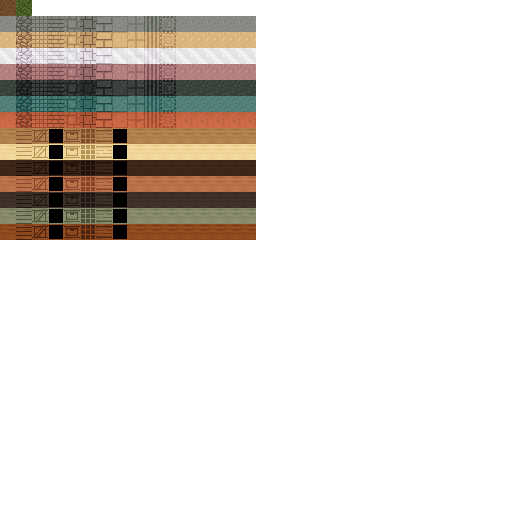
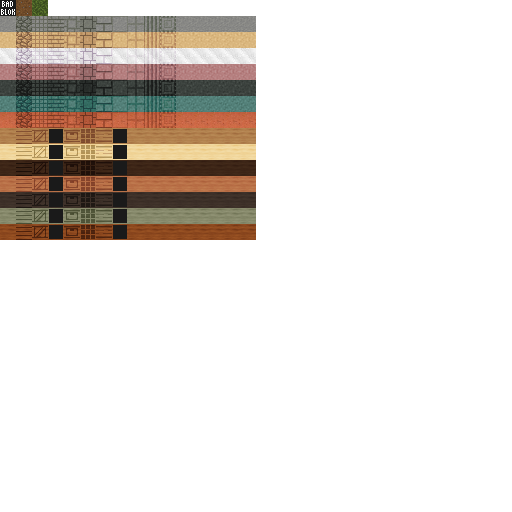
fix segflt when liting up a world for first time

Changed region(s): [[0.2188, 0.25, 0.25, 0.4688], [0.0938, 0.25, 0.125, 0.4688], [0.0, 0.0, 0.0938, 0.0312]]

diff --git a/src/lighting.c b/src/lighting.c
@@ -12,8 +12,6 @@ static const int opaque_shape[] = {
 	1, 1, 1, 1, 1, 1,
 	0, 0, 0,
 	1, 1, 1, 1, 1, 1, 1, 1,
-	1, 1,
-	0, 0, 0, 0, 0, 0, 0, 0, 0, 0, 0, 0, 0, 0, 0, 0
 };
 
 struct lighting {
@@ -84,13 +82,17 @@ void update_lighting(struct world *w, struct box3ll bb, struct box3ll *rbb)
 	while (array_size(l->s1)) {
 		array_pop(l->s1, &p);
 		k = world_get_light(w, p);
-		world_set_light(w, p, 0);
-		find_boundary(l, v3ll(p.x, p.y - 1, p.z), k);
-		find_boundary(l, v3ll(p.x, p.y + 1, p.z), k - 1);
-		find_boundary(l, v3ll(p.x - 1, p.y, p.z), k - 1);
-		find_boundary(l, v3ll(p.x + 1, p.y, p.z), k - 1);
-		find_boundary(l, v3ll(p.x, p.y, p.z - 1), k - 1);
-		find_boundary(l, v3ll(p.x, p.y, p.z + 1), k - 1);
+		if (k > 0) {
+			world_set_light(w, p, 0);
+			find_boundary(l, v3ll(p.x, p.y - 1, p.z), k);
+			if (k > 1) {
+				find_boundary(l, v3ll(p.x, p.y + 1, p.z), k - 1);
+				find_boundary(l, v3ll(p.x - 1, p.y, p.z), k - 1);
+				find_boundary(l, v3ll(p.x + 1, p.y, p.z), k - 1);
+				find_boundary(l, v3ll(p.x, p.y, p.z - 1), k - 1);
+				find_boundary(l, v3ll(p.x, p.y, p.z + 1), k - 1);
+			}
+		}
 	}
 
 	if (bb.y1 == WORLD_H) {
@@ -100,21 +102,22 @@ void update_lighting(struct world *w, struct box3ll bb, struct box3ll *rbb)
 			world_set_light(w, v3ll(q.x, WORLD_H - 1, q.y), 15);
 	}
 
-	*rbb = bb;
+	if (rbb != NULL)
+		*rbb = bb;
 	while (array_size(l->s2)) {
 		array_pop(l->s2, &p);
-		if (p.x < rbb->x0)
-			rbb->x0 = p.x;
-		else if (p.x >= rbb->x1)
-			rbb->x1 = p.x + 1;
-		if (p.y < rbb->y0)
-			rbb->y0 = p.y;
-		else if (p.y >= rbb->y1)
-			rbb->y1 = p.y + 1;
-		if (p.z < rbb->z0)
-			rbb->z0 = p.z;
-		else if (p.z >= rbb->z1)
-			rbb->z1 = p.z + 1;
+		if (p.x < bb.x0)
+			bb.x0 = p.x;
+		else if (p.x >= bb.x1)
+			bb.x1 = p.x + 1;
+		if (p.y < bb.y0)
+			bb.y0 = p.y;
+		else if (p.y >= bb.y1)
+			bb.y1 = p.y + 1;
+		if (p.z < bb.z0)
+			bb.z0 = p.z;
+		else if (p.z >= bb.z1)
+			bb.z1 = p.z + 1;
 		k = world_get_light(w, p);
 		lit_up(l, v3ll(p.x, p.y - 1, p.z), k, 0, 1);
 		lit_up(l, v3ll(p.x, p.y + 1, p.z), k, 1, 0);

diff --git a/src/update.c b/src/update.c
@@ -3,6 +3,7 @@
 
 #include "context.h"
 #include "recipes.h"
+#include "lighting.h"
 
 
 int chunks_by_priority(const void *p1, const void *p2)
@@ -427,19 +428,25 @@ void update_chunks(struct context *ctx)
 	i = i < ctx->chunks_per_tick ? i : ctx->chunks_per_tick;
 	for (j = 0; j < i; ++j) {
 		c = out_of_date[j];
-		//		fprintf(stdout, "Update chunk %d (%d,%d); priority:%d", c->id, c->x, c->z, c->priority);
+			fprintf(stdout, "Update chunk %d (%d,%d); priority:%d", c->id, c->x, c->z, c->priority);
 		if ((c->flags & CHUNK_UNLOADED) != 0) {
-			//			printf("; load from file");
+				printf("; load from file");
 			/* load this chunk */
 			c->flags ^= CHUNK_UNLOADED;
 		}
+		if ((c->flags & CHUNK_UNLIT) != 0) {
+			printf("; lit up");
+		update_lighting(ctx->w, box3ll(c->x, 0, c->z, c->x + CHUNK_W, CHUNK_H, c->z + CHUNK_D), NULL);
+			c->flags ^= CHUNK_UNLIT;
+			c->flags |= CHUNK_UNRENDERED;
+		}
 		if ((c->flags & CHUNK_UNRENDERED) != 0) {
-			//			printf("; update vertex buffers");
+				printf("; update vertex buffers");
 			for (k = 0; k < SHARDS_PER_CHUNK; ++k)
 				update_vbo(ctx, c->shards[k]->id, c->x, k * SHARD_H, c->z);
 			c->flags ^= CHUNK_UNRENDERED;
 		}
-		//		fprintf(stdout, "\n");
+			fprintf(stdout, "\n");
 	}
 }
 

diff --git a/src/terraform.c b/src/terraform.c
@@ -80,10 +80,18 @@ int terraform(int64_t seed, struct chunk *c)
 
 	for (x = 0, u = c->x; x < CHUNK_W; ++x, ++u) {
 		for (z = 0, v = c->z; z < CHUNK_D; ++z, ++v) {
-			height = CHUNK_H * (0.5 + noise_3d(seed, u, v, 100, 4) * 0.1);
-//			height = CHUNK_H / 2;
-			for (y = 0; y < height; ++y) {
-				chunk_set_mat(c, v3ll(x, y, z), 1);
+//			height = CHUNK_H * (0.5 + noise_3d(seed, u, v, 100, 4) * 0.1);
+			height = CHUNK_H / 2;
+			for (y = 0; y < height - 4; ++y) {
+				chunk_set_mat(c, v3ll(x, y, z), MAT_LIMESTONE);
+				chunk_set_shape(c, v3ll(x, y, z), SHAPE_BLOCK_DN);
+			}
+			for (; y < height - 1; ++y) {
+				chunk_set_mat(c, v3ll(x, y, z), MAT_DIRT);
+				chunk_set_shape(c, v3ll(x, y, z), SHAPE_BLOCK_DN);
+			}
+			for (; y < height; ++y) {
+				chunk_set_mat(c, v3ll(x, y, z), MAT_GRASS);
 				chunk_set_shape(c, v3ll(x, y, z), SHAPE_BLOCK_DN);
 			}
 		}

diff --git a/src/vertex_buffer.c b/src/vertex_buffer.c
@@ -13,13 +13,9 @@
 
 #define TC(a,b) { a / 32., b / 32. }
 
-const struct v2f texcoord_from_mat[][3] = {
-	[MAT_DIRT] = { TC(0, 0), TC(0, 0), TC(1, 0) },
-	[MAT_WOOD] = { TC(2, 0), TC(2, 1), TC(2, 2) },
-	[MAT_GRASS] = { TC(1, 0), TC(1, 0), TC(1, 0) },
-	[MAT_WORKBENCH] = { TC(4, 8), TC(5, 8), TC(0, 8) },
-	[MAT_CRATE] = { TC(2, 8), TC(3, 8), TC(0, 8) },
-	[MAT_PIPE] = { TC(8, 0), TC(8, 1), TC(8, 2) },
+const struct v2f texcoord_from_mat[256][3] = {
+	[MAT_DIRT] = { TC(1, 0), TC(1, 0), TC(1, 0) },
+	[MAT_GRASS] = { TC(2, 0), TC(2, 0), TC(2, 0) },
 	[MAT_LIMESTONE] = { TC(0, 1), TC(0, 1), TC(0, 1) },
 	[MAT_LIMESTONE_COBBLE] = { TC(1, 1), TC(1, 1), TC(1, 1) },
 	[MAT_LIMESTONE_LBRICK] = { TC(6, 1), TC(7, 1), TC(8, 1) },

diff --git a/src/context.c b/src/context.c
@@ -134,8 +134,9 @@ int load_all(struct context *ctx)
 			}
 		}
 	}
+/*
 	if (from_scratch)
-		update_lighting(ctx->w, box3ll(0, 0, 0, WORLD_W, WORLD_H, WORLD_D), NULL);
+		update_lighting(ctx->w, box3ll(0, 0, 0, WORLD_W, WORLD_H, WORLD_D), NULL);*/
 	p.x = ctx->w->x + CHUNK_W * CHUNKS_PER_WORLD / 2;
 	p.y = CHUNK_H;
 	p.z = ctx->w->z + CHUNK_W * CHUNKS_PER_WORLD / 2;

diff --git a/src/array.h b/src/array.h
@@ -47,6 +47,7 @@ static inline void array_push(struct array *s, void *e)
 		else
 			s->alloc *= 2;
 		s->data = realloc(s->data, s->alloc * s->elem_size);
+		assert(s->data != NULL);
 	}
 	memcpy(s->data + s->size * s->elem_size, e, s->elem_size);
 	++s->size;
